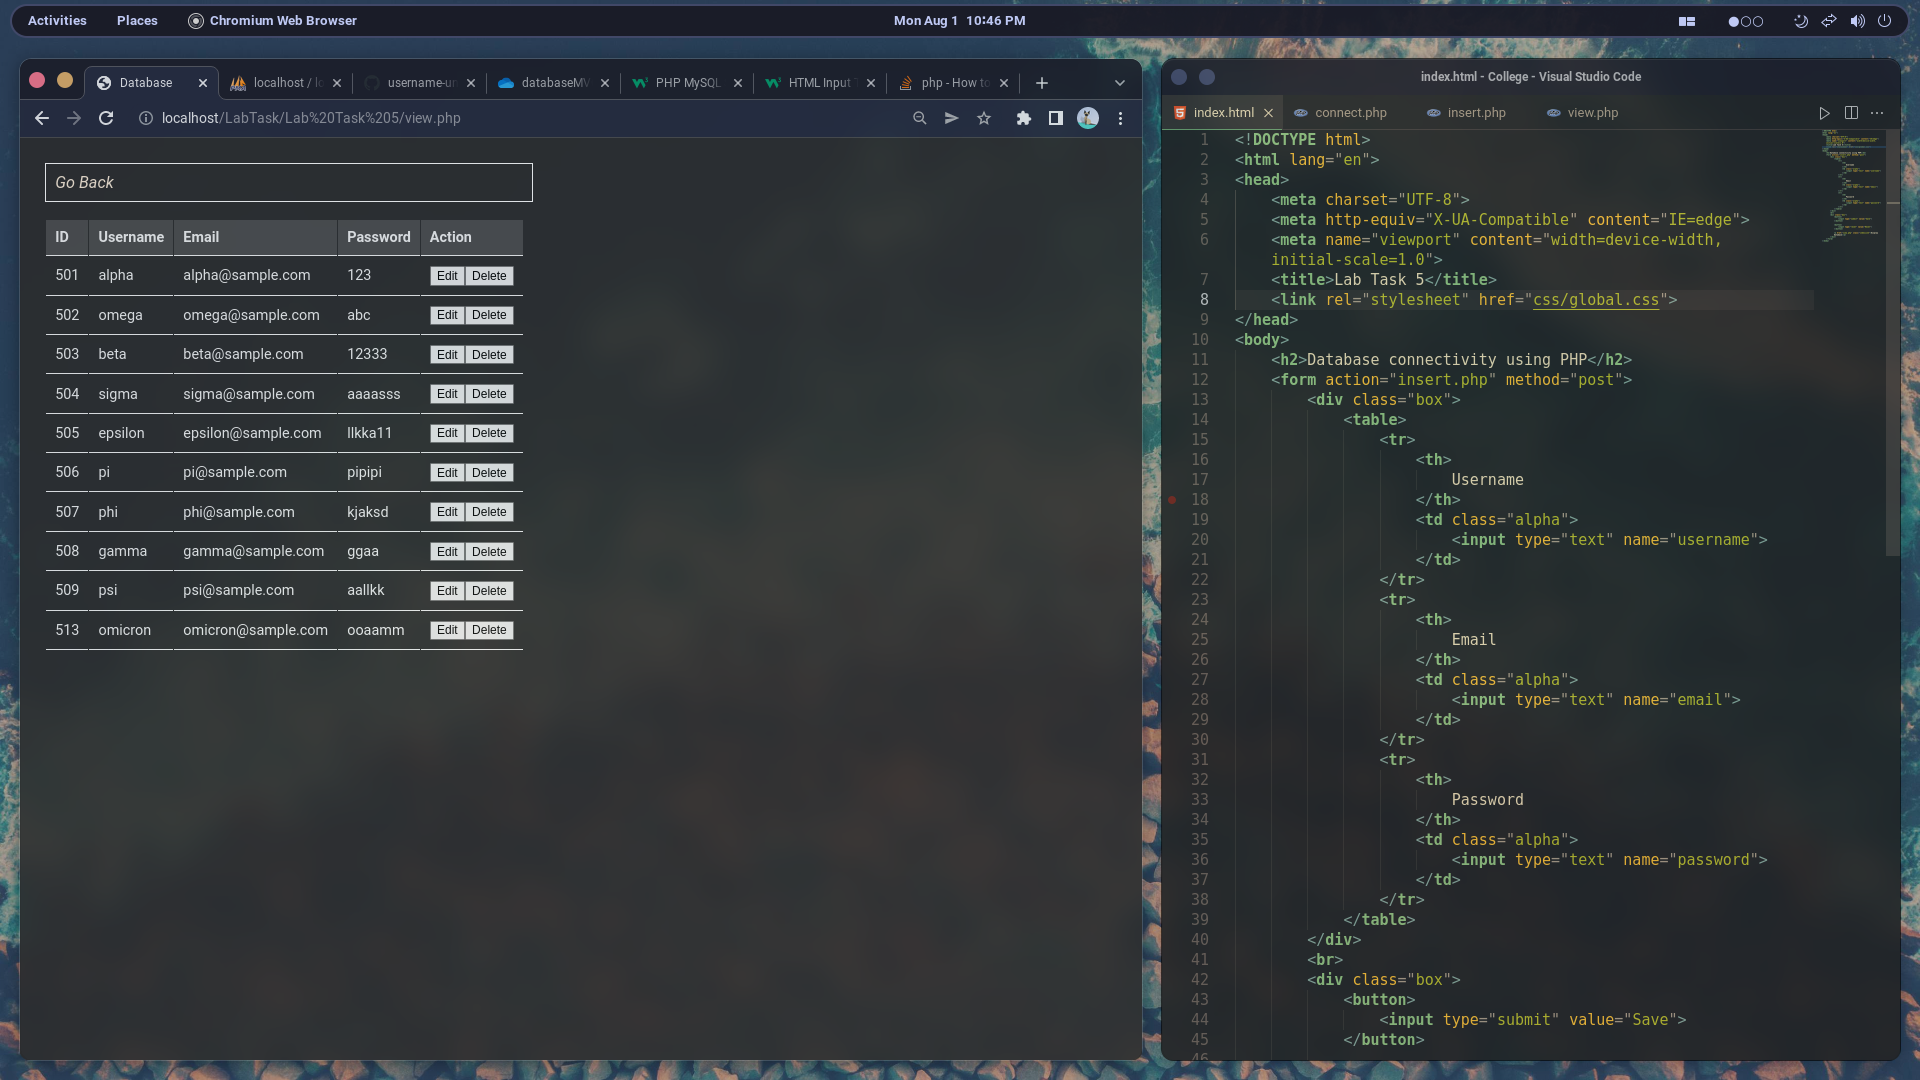
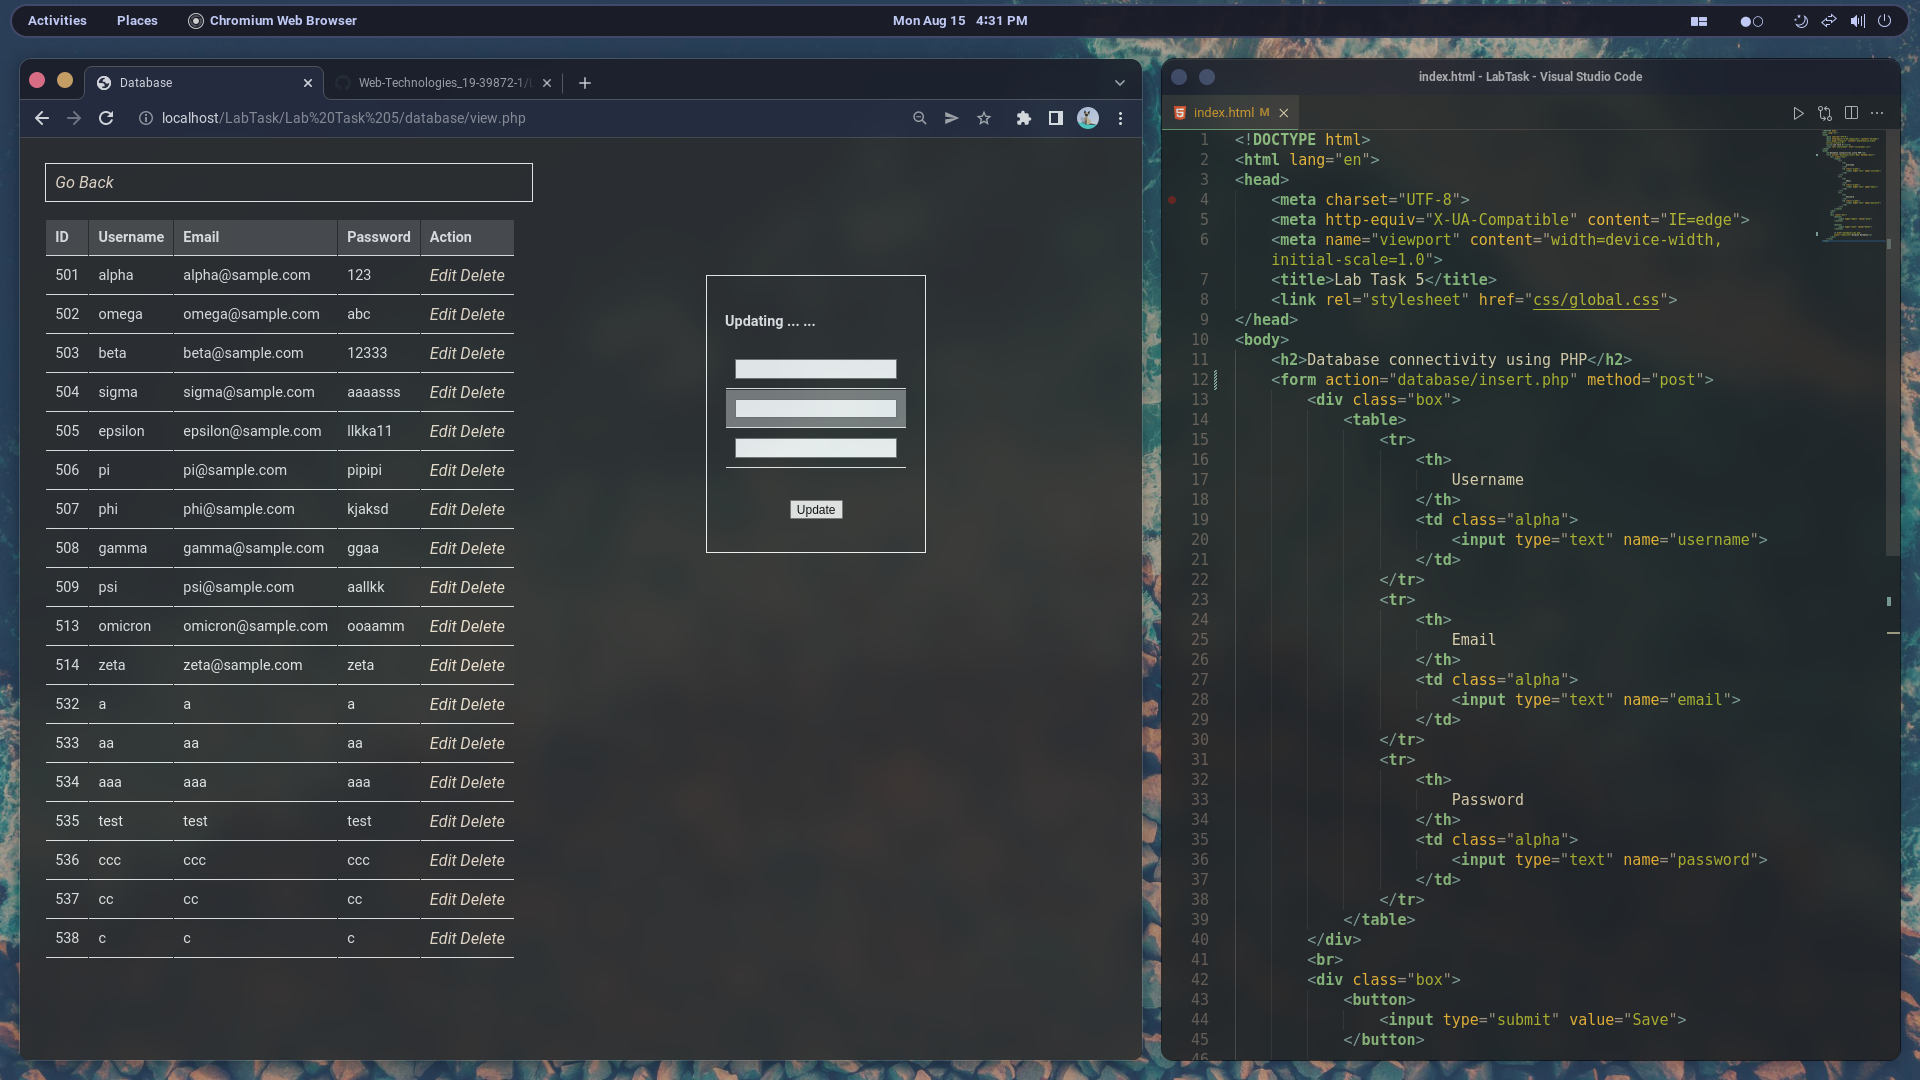
Done

diff --git a/Lab Task 5/index.html b/Lab Task 5/index.html
@@ -9,7 +9,7 @@
 </head>
 <body>
     <h2>Database connectivity using PHP</h2>
-    <form action="insert.php" method="post">
+    <form action="database/insert.php" method="post">
         <div class="box">
             <table>
                 <tr>
@@ -48,7 +48,7 @@
                 <input type="reset" value="Reset">
             </button>
 
-            <a href="view.php" class="indexLink">Display Database</a>
+            <a href="database/view.php" class="indexLink">Display Database</a>
         </div>
     </form>
 </body>

diff --git a/Lab Task 5/css/table.css b/Lab Task 5/css/table.css
@@ -15,3 +15,14 @@ th {
 tr:hover {
     background-color: grey;
 }
+
+.updateData {
+    display: inline-block;
+    position: absolute;
+    top: 90px;
+    left: 700px;
+    margin: 5%;
+    padding: 20px;
+
+    border: 1px solid white;
+}

diff --git a/Lab Task 5/partials/footer.php b/Lab Task 5/partials/footer.php
@@ -1,0 +1,68 @@
+<div>
+    <table>
+        <tr>
+            <th>ID</th>
+            <th>Username</th>
+            <th>Email</th>
+            <th>Password</th>
+            <th>Action</th>
+        </tr>
+
+        <?php
+        /*if ($result->num_rows > 0) {  
+                while ($row = $result->fetch_assoc()) {
+                    echo "<tr><td>".$row["id"]."</td><td>".$row["username"]."</td><td>".$row["email"]."</td><td>".$row['password']."</td><td><button>Edit</button><button>Delete</button></td></tr>";
+                }
+            }*/
+        ?>
+
+        <?php
+        while ($row = $result->fetch_assoc()) : ?>
+            <tr>
+                <td><?php echo $row['id']; ?></td>
+                <td><?php echo $row['username']; ?></td>
+                <td><?php echo $row['email']; ?></td>
+                <td><?php echo $row['password']; ?></td>
+                <td>
+                    <a href="../database/view.php?edit=<?php echo $row['id']; ?>">Edit</a>
+                    <a href="../database/view.php?delete=<?php echo $row['id']; ?>">Delete</a>
+                </td>
+            </tr>
+        <?php endwhile; ?>
+
+    </table>
+</div>
+
+<div class="updateData">
+    <form method="post">
+
+        <input type="hidden" name="id" value="<?php echo $id; ?>">
+
+        <h4>Updating <?php echo $username; ?> ... ...</h4>
+
+        <table>
+            <tr>
+                <!-- <th>Name</th> -->
+                <td>
+                    <input type="text" name="username" value="<?php echo $username; ?>">
+                </td>
+            </tr>
+            <tr>
+                <!-- <th>Email</th> -->
+                <td>
+                    <input type="text" name="email" value="<?php echo $email; ?>">
+                </td>
+            </tr>
+            <tr>
+                <!-- <th>Password</th> -->
+                <td>
+                    <input type="text" name="password" value="<?php echo $password; ?>">
+                </td>
+        </table><br>
+        <p align="center"><input type="submit" value="Update" name="update"></p>
+    </form>
+</div>
+
+</body>
+
+</html>

diff --git a/Lab Task 5/database/update.php b/Lab Task 5/database/update.php
@@ -1,0 +1,28 @@
+<?php
+
+if (isset($_GET['edit'])) {
+
+    //require_once 'connect.php';
+
+    $id = $_GET['edit'];
+
+    $stmt = $connection->query("select * from sample_2 where id=$id");
+
+    if (count($stmt) == 1){
+        $row = $stmt->fetch_array();
+        $username = $row['username'];
+        $email = $row['email'];
+        $password = $row['password'];
+    }
+
+    if (isset($_POST['update'])) {
+        
+        $id = $_POST['id'];
+
+        $username = $_POST['username'];
+        $email = $_POST['email'];
+        $password = $_POST['password'];
+
+        $connection->query("UPDATE sample_2 SET username='$username', email='$email', `password`='$password' WHERE id=$id");
+    }
+}

diff --git a/Lab Task 5/partials/header.php b/Lab Task 5/partials/header.php
@@ -1,0 +1,19 @@
+<!DOCTYPE html>
+<html lang="en">
+
+<head>
+    <meta charset="UTF-8">
+    <meta http-equiv="X-UA-Compatible" content="IE=edge">
+    <meta name="viewport" content="width=device-width, initial-scale=1.0">
+    <title>Database</title>
+    <link rel="stylesheet" href="../css/global.css">
+    <link rel="stylesheet" href="../css/table.css">
+</head>
+
+<body>
+    <div class="box">
+        <div>
+            <a href="../index.html">Go Back</a>
+        </div>
+    </div>
+    <br>

diff --git a/Lab Task 5/database/connect.php b/Lab Task 5/database/connect.php
@@ -13,7 +13,5 @@ if ($connection->connect_error) {
     $stmt = $connection->prepare("insert into sample_2(username, email, password) values(?, ?, ?)");
     $stmt->bind_param("sss", $username, $email, $password);
     $stmt->execute();
-    //echo "Added Successfully...";
     $stmt->close();
-    //$connection->close();
 }

diff --git a/Lab Task 5/database/view.php b/Lab Task 5/database/view.php
@@ -1,0 +1,14 @@
+<?php
+
+include '../partials/header.php';
+
+require_once 'connect.php';
+
+$result = $connection->query("select * from sample_2");
+
+require_once 'delete.php';
+
+$id = 0;
+require_once 'update.php';
+
+include '../partials/footer.php';

diff --git a/Lab Task 5/database/delete.php b/Lab Task 5/database/delete.php
@@ -1,0 +1,13 @@
+<?php
+
+if (isset($_GET['delete'])) {
+
+    //require_once 'connect.php';
+
+    $id = $_GET['delete'];
+
+    $stmt = $connection->prepare("DELETE FROM sample_2 WHERE id=$id");
+
+    $stmt->execute();
+    $stmt->close();
+}

diff --git a/Lab Task 5/database/insert.php b/Lab Task 5/database/insert.php
@@ -5,4 +5,6 @@ $email = $_POST['email'];
 $password = $_POST['password'];
 
 require 'connect.php';
+
+header("Location: ../index.html?insert=success");
 $connection->close();

diff --git a/Lab Task 5/README.md b/Lab Task 5/README.md
@@ -4,4 +4,5 @@
 <p align="center">
     <img src="Screenshots/Output-1.png" width="80%" height="40%"/><br><br>
     <img src="Screenshots/Output-2.png" width="80%" height="40%"/>
+    <img src="Screenshots/Output-3.png" width="80%" height="40%"/>
 </p>
